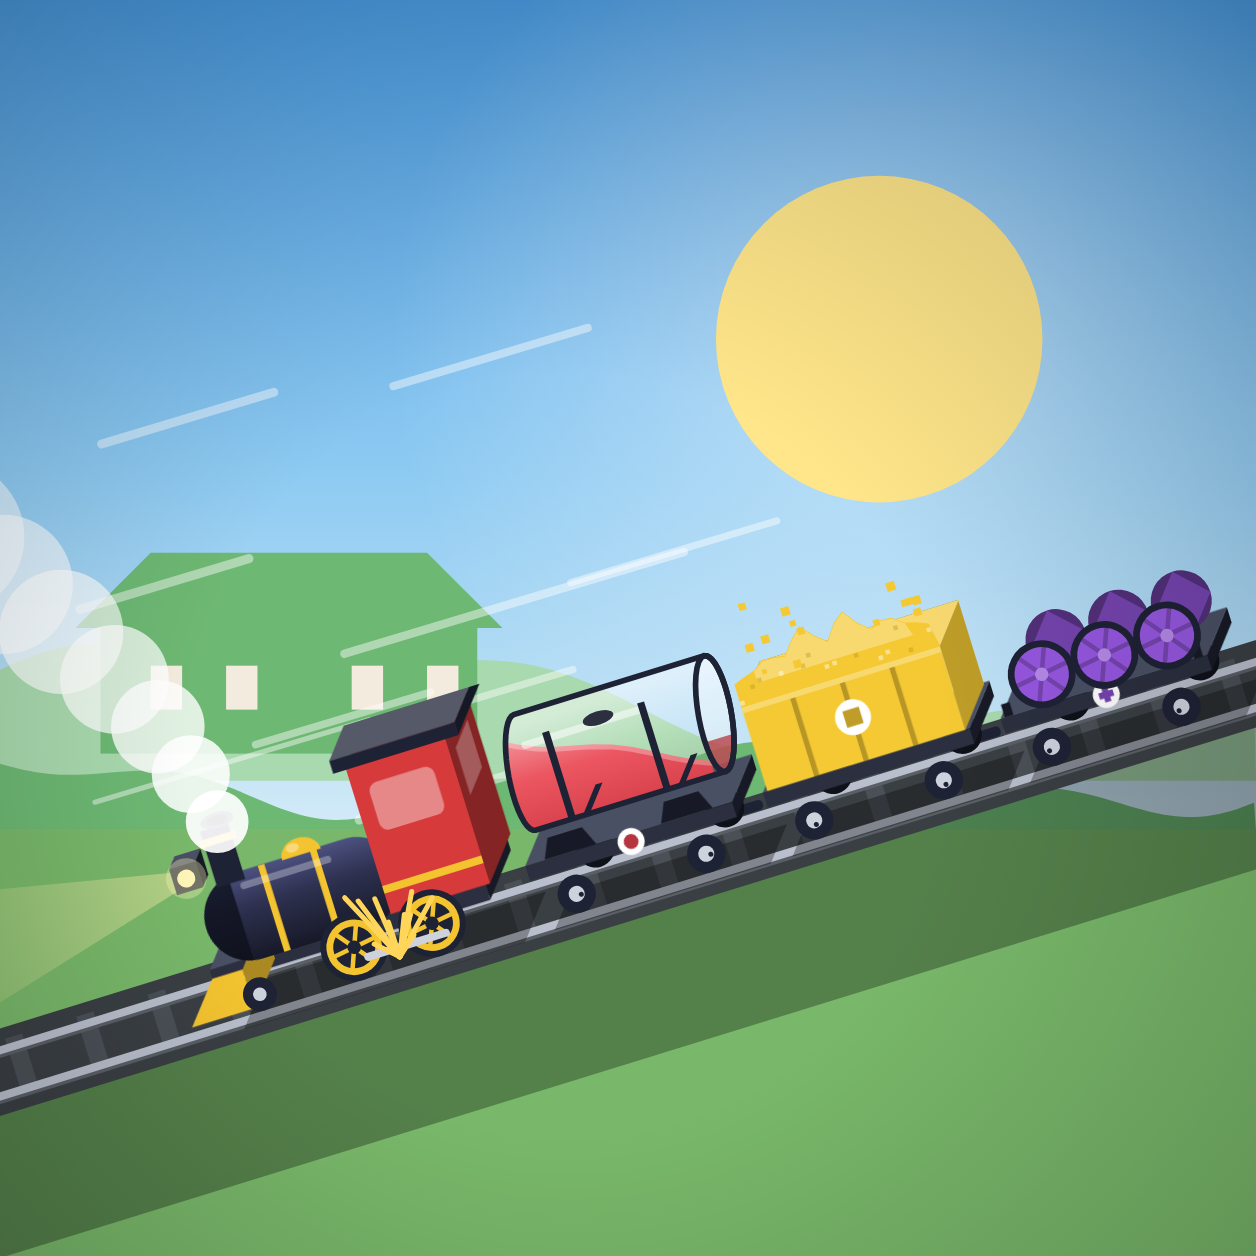
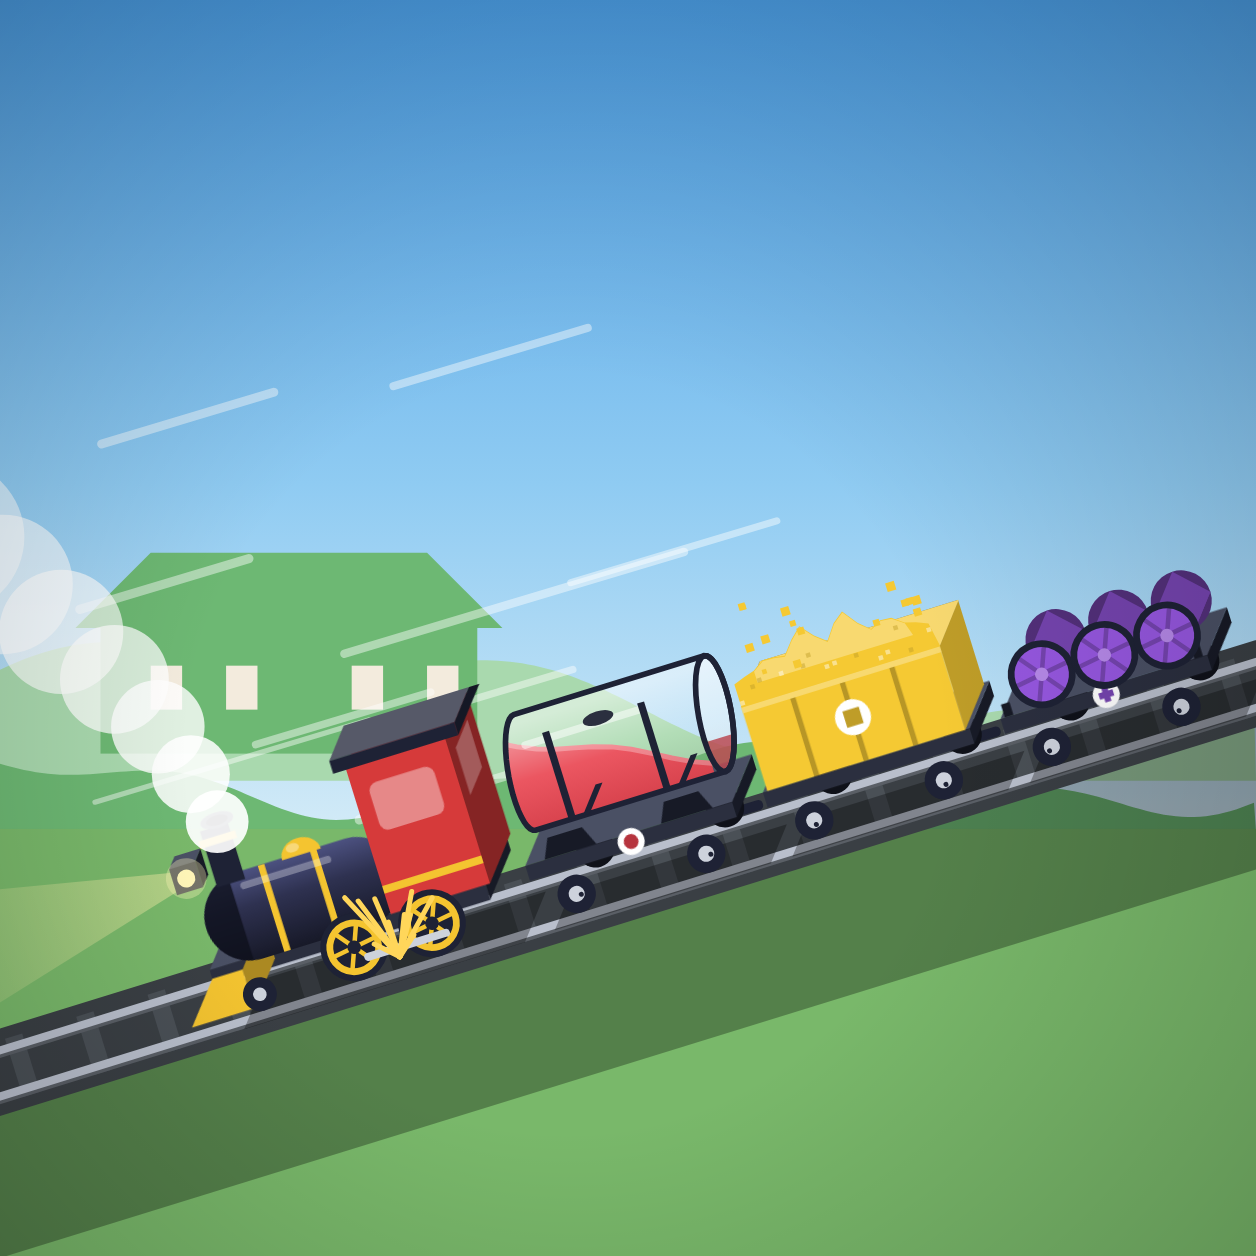
Thumb sem sol nem lua
Ceu so com o degrade e as linhas de velocidade; o trem fica como unico
objeto principal. Opcoes a, b e c regeneradas; a oficial segue a b.

Claude-Session: https://claude.ai/code/session_011UVCiVifh6VhRQPdrHgR26

Changed region(s): [[0.4658, 0.0, 0.9315, 0.4658]]

diff --git a/tools/thumb.html b/tools/thumb.html
@@ -27,16 +27,12 @@ const CEUS = {
 const K = CEUS[opcao];
 const tema = K.tema;
 
-// ---- ceu, astro, morros
+// ---- ceu e morros
 let gr = ctx.createLinearGradient(0, 0, 0, S * 0.7);
 gr.addColorStop(0, K.ceu[0]); gr.addColorStop(0.55, K.ceu[1]); gr.addColorStop(1, K.ceu[2]);
 ctx.fillStyle = gr; ctx.fillRect(0, 0, S, S);
 if (opcao === 'c') { for (let i = 0; i < 140; i++) { ctx.globalAlpha = 0.3 + r() * 0.7; ctx.fillStyle = '#fff'; const s = r() < 0.1 ? 3 : 1.6; ctx.fillRect(r() * S, r() * S * 0.5, s, s); } ctx.globalAlpha = 1; }
-const sx = S * 0.7, sy = S * 0.27, sr = S * 0.13;
-const halo = ctx.createRadialGradient(sx, sy, sr, sx, sy, sr * 3);
-halo.addColorStop(0, 'rgba(255,255,255,0.3)'); halo.addColorStop(1, 'rgba(255,255,255,0)');
-ctx.fillStyle = halo; ctx.fillRect(0, 0, S, S);
-ctx.fillStyle = K.sol; ctx.beginPath(); ctx.arc(sx, sy, sr, 0, Math.PI * 2); ctx.fill();
+// sem sol nem lua: o ceu fica so com o degrade e as linhas de velocidade
 function morros(y0, cor, alt, fase, freq) {
   ctx.fillStyle = cor; ctx.beginPath(); ctx.moveTo(0, y0 + 2);
   for (let x = 0; x <= S; x += 6) { const t = x / S; ctx.lineTo(x, y0 - alt * (0.55 + 0.3 * Math.sin(t * Math.PI * freq + fase) + 0.15 * Math.sin(t * Math.PI * freq * 2.7 + fase * 2))); }
